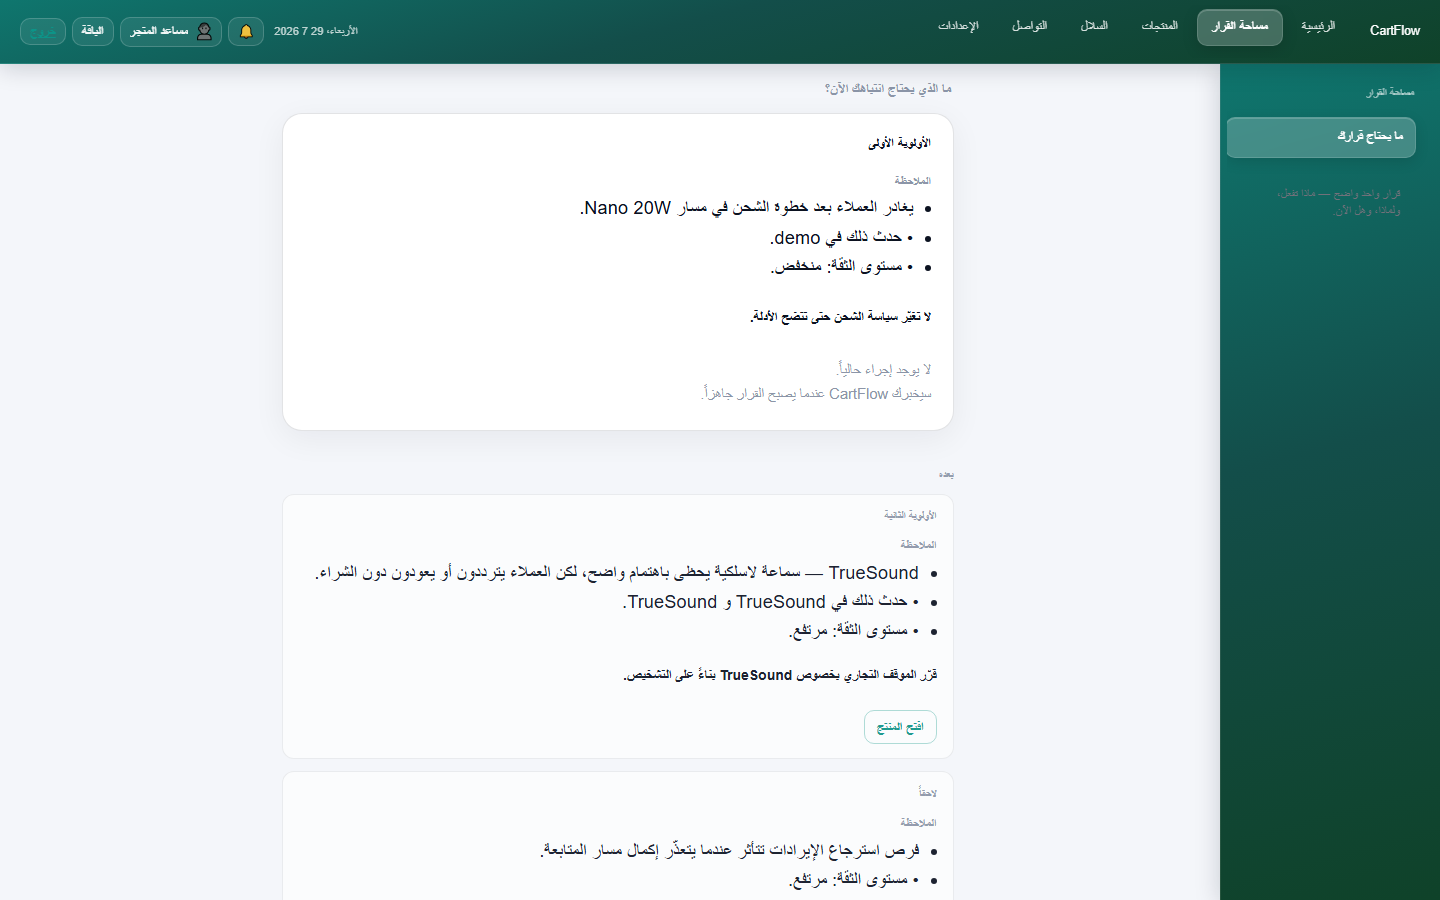
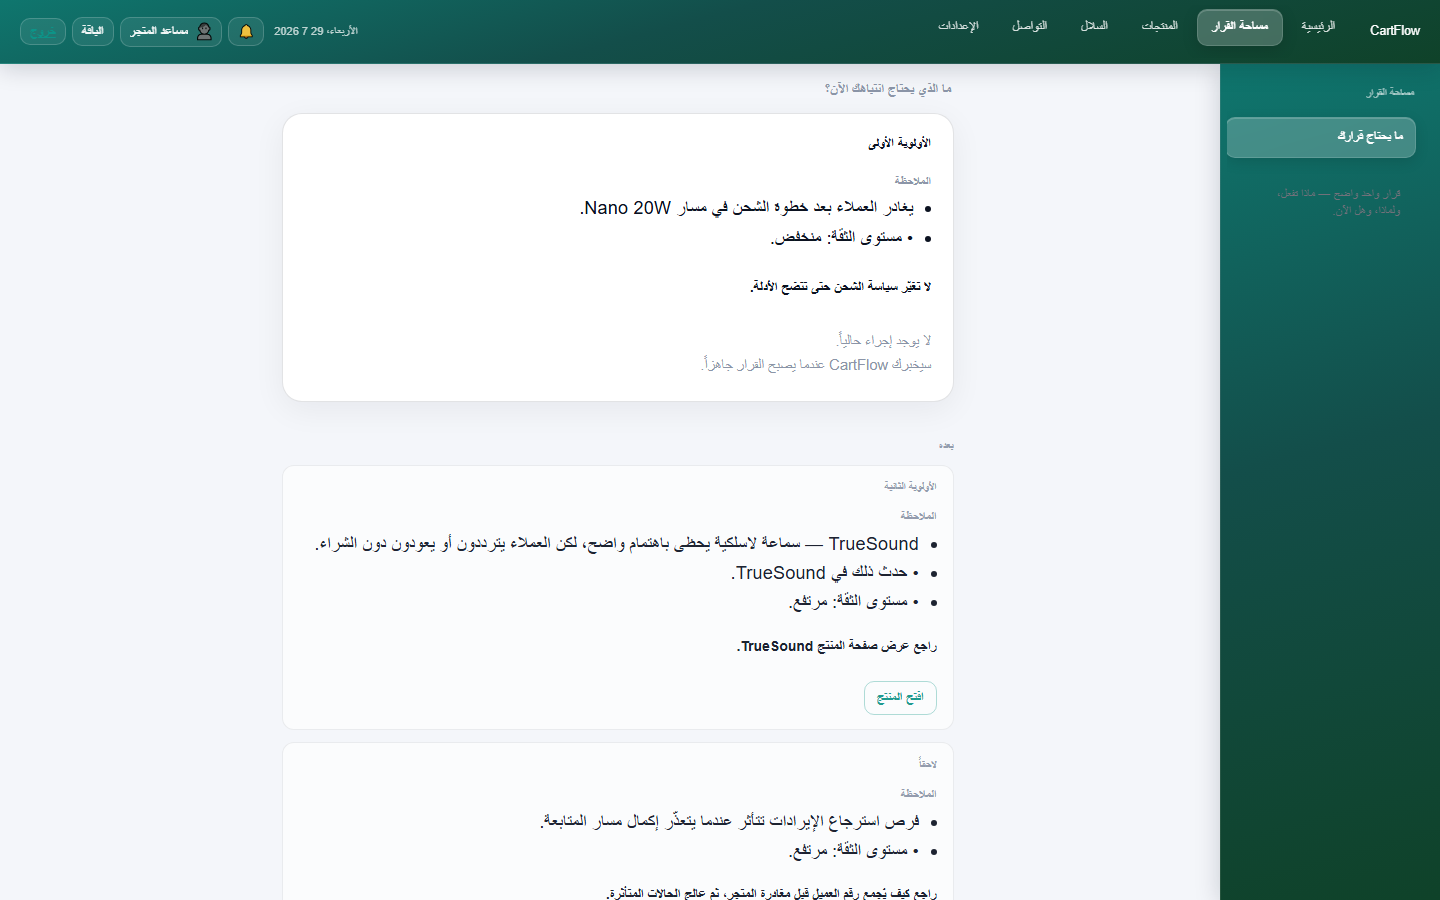
docs(workspace): Simplification V1 post-harden Living Store shots.
CEO pack + meta after language harden deploy 391094c.

Changed region(s): [[0.2188, 0.5289, 0.6562, 0.8089], [0.375, 0.8711, 0.6562, 1.0], [0.5, 0.2489, 0.6562, 0.4667]]

diff --git a/docs/SYSTEM_SUMMARY.md b/docs/SYSTEM_SUMMARY.md
@@ -561,7 +561,7 @@ Recovery: `recovery_delay`, `recovery_delay_unit`, `recovery_attempts`, `recover
 
 | Date (UTC) | Summary |
 |------------|---------|
-| 2026-07-29 | **Decision Workspace Simplification V1 — DEPLOYED:** Merge `1d836c6` PR [#130](https://github.com/majed3366/cartflow/pull/130); Railway Success; Living Store `PASS_WORKSPACE_SIMPLIFICATION_V1_SHOTS`. Face: Priority → Evidence (الملاحظة) → Decision → Action (or wait). Pack: `docs/product/decision_workspace_simplification_v1/`. **STOP — await CEO visual review. No polish / Products / Carts.** |
+| 2026-07-29 | **Decision Workspace Simplification V1 — DEPLOYED:** Merge `1d836c6` PR [#130](https://github.com/majed3366/cartflow/pull/130) + language harden `391094c` [#131](https://github.com/majed3366/cartflow/pull/131); Railway Success; Living Store `PASS_WORKSPACE_SIMPLIFICATION_V1_SHOTS`. Face: Priority → Evidence (الملاحظة) → Decision → Action (or wait). Pack: `docs/product/decision_workspace_simplification_v1/`. **STOP — await CEO visual review. No polish / Products / Carts.** |
 | 2026-07-28 | **Decision Workspace Storytelling Face V1 — DEPLOYED:** Merge `a75d223` PR [#128](https://github.com/majed3366/cartflow/pull/128); Living Store `PASS_WORKSPACE_STORYTELLING_FACE_V1_SHOTS`. Face: Priority → Observation → Decision → Action(READY only). Pack: `docs/product/decision_workspace_storytelling_face_v1/`. **STOP — await CEO visual review. No polish / Products / Carts.** |
 | 2026-07-28 | **Decision Intelligence Framework V1 — PRODUCTION BASELINE FROZEN:** Official closure. Includes Diagnostic Reasoning · Evidence Expansion · Execution Methodology (EM-001/002) · Decision Playbooks (PBL-001/002) · Executive Compression · Decision Storytelling (**DS-001…DS-009**). Pack: `docs/product/decision_intelligence_framework_v1/`. Future Decision Framework constitutions forbidden except exception gate (production architectural gap / Reality Validation insufficiency / unsupported UX scenario). **Ready for implementation and UX refinement. No further Decision Framework constitutions under normal process.** |
 | 2026-07-28 | **Decision Storytelling Constitution V1 — DS-009 Story Truth Law:** Operational story never predetermined; store reality writes the story. Pack: `docs/product/decision_storytelling_constitution_v1/`. **FROZEN in Decision Intelligence Framework V1.** |

diff --git a/docs/product/decision_workspace_simplification_v1/CEO_REVIEW_PACK_V1.md b/docs/product/decision_workspace_simplification_v1/CEO_REVIEW_PACK_V1.md
@@ -1,8 +1,8 @@
 # Decision Workspace Simplification V1 — CEO Review Pack
 
 **Status:** Deployed — awaiting CEO visual review.  
-**Deployed SHA:** `1d836c67b3474ac1e80c3f8970360e9b18f43c0b`  
-**PR:** [#130](https://github.com/majed3366/cartflow/pull/130)  
+**Deployed SHA:** `391094cfb2f0140bbba806ce5b20e5d6d8e8e359`  
+**Code PR:** [#130](https://github.com/majed3366/cartflow/pull/130) · language harden [#131](https://github.com/majed3366/cartflow/pull/131)  
 **Date (UTC):** 2026-07-29  
 **Living Store shots:** `PASS_WORKSPACE_SIMPLIFICATION_V1_SHOTS`  
 **Railway:** Success (cartflow + smart-reply-ai)
